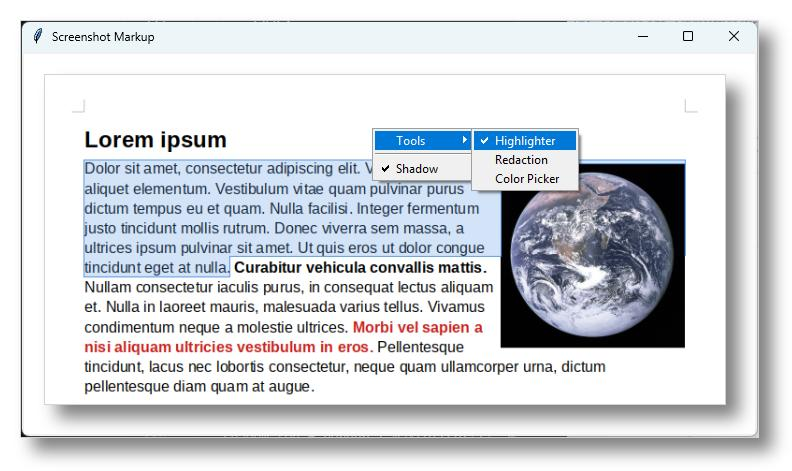
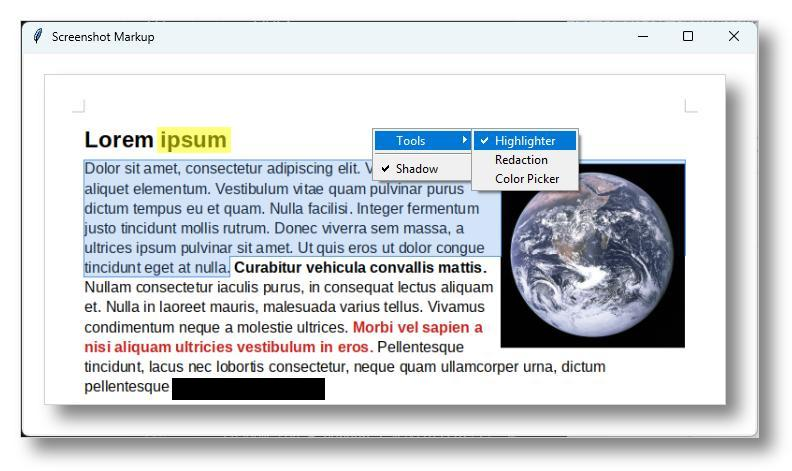
add load image shortcut and implemented that functinality. updated the readme. show highlight and redact functionality to screenshot.

Changed region(s): [[0.2121, 0.8025, 0.4242, 0.862], [0.1818, 0.2675, 0.303, 0.327]]

diff --git a/README.md b/README.md
@@ -28,6 +28,7 @@ A Windows desktop application for quickly marking up screenshots with highlighti
 | Ctrl+V | Paste image from clipboard |
 | Ctrl+C | Copy modified image to clipboard |
 | Ctrl+S | Save image as JPEG |
+| Ctrl+L | Load image from file |
 | Ctrl+Z | Undo last action |
 | Ctrl+Y | Redo last action |
 
@@ -94,3 +95,4 @@ This project is licensed under the GPLv3 License - see the LICENSE file for deta
 
 - Built with Python and Tkinter
 - Uses Pillow for image processing
+- Special thanks to all contributors
